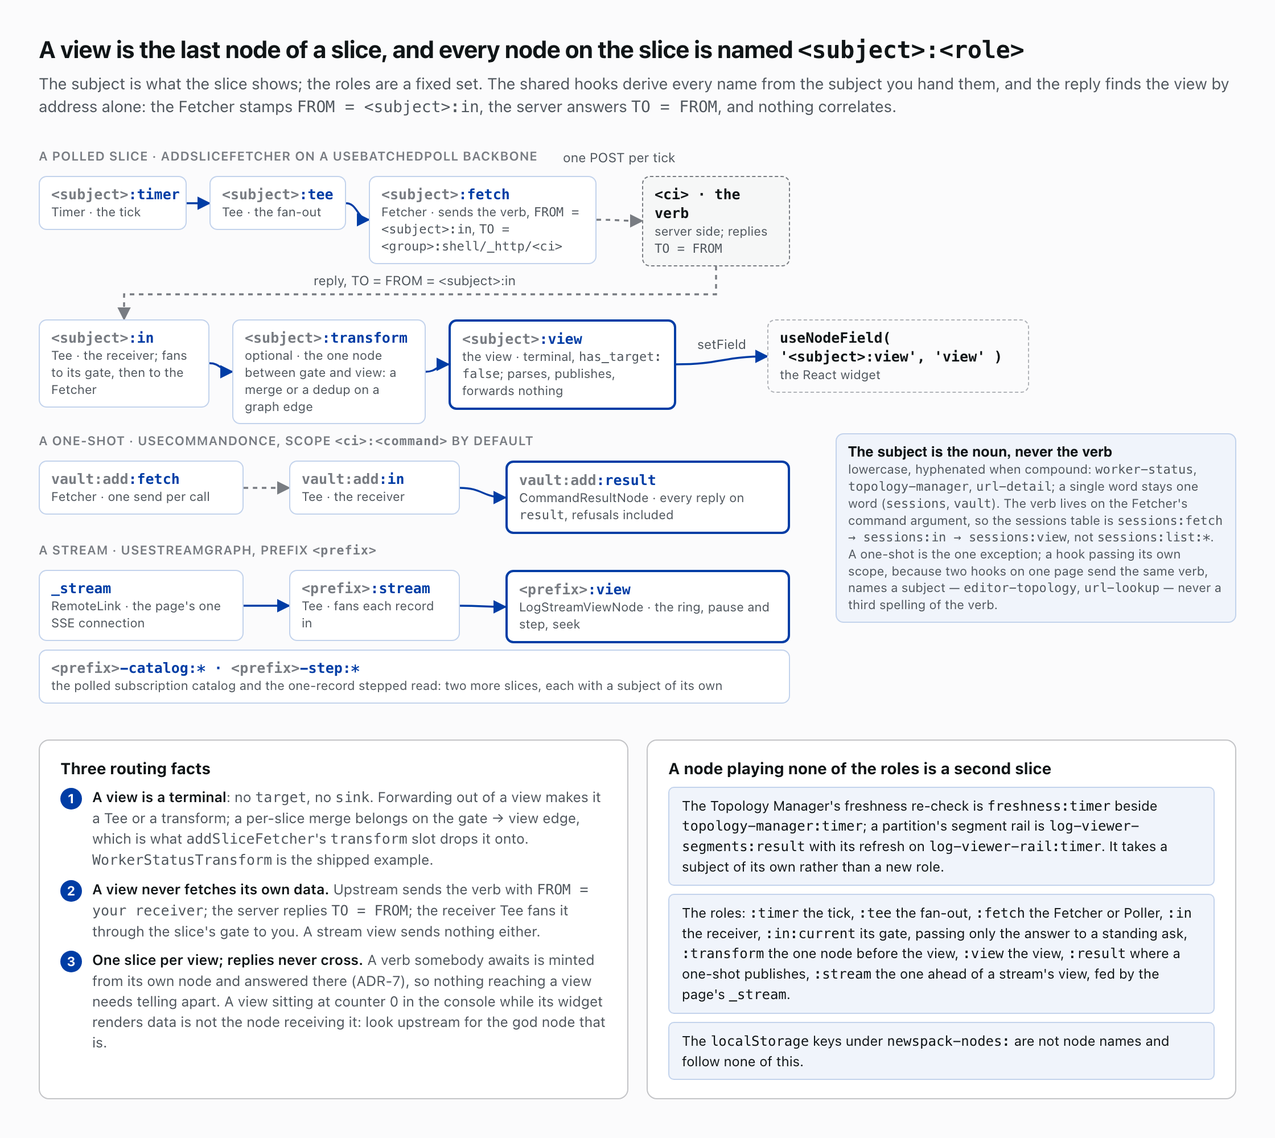
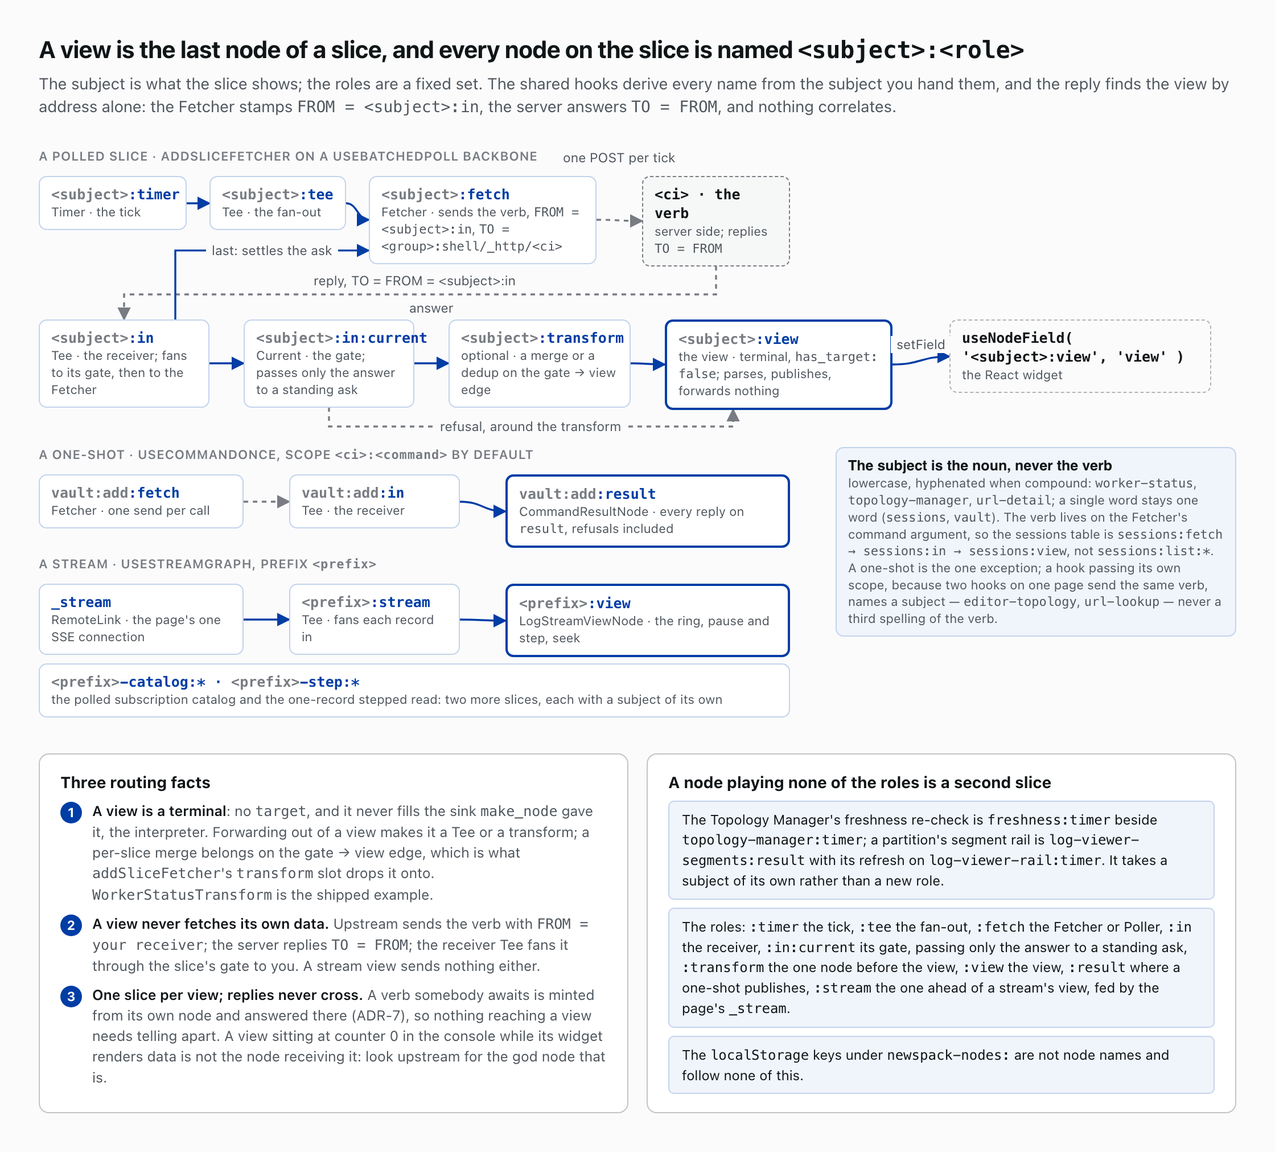
fix: resolve the GitHub AI findings in the console, build kit and docs
A save or delete re-asks every mounted useExpandedIncludes for its set,
which the cleared cache alone left empty and loading. The Sass importer
builds its file URL with pathToFileURL(), so a path with # or % resolves.
A graph whose every edge dangles grids alphabetically. browser-runtime.md
and the slice-path diagram draw the sinks and the current gate as built.

diff --git a/docs/img/wvn-slice-path.html b/docs/img/wvn-slice-path.html
@@ -1,6 +1,6 @@
 <!doctype html><meta charset="utf-8"><link rel="stylesheet" href="base.css">
 <style>
-.g { position: relative; width: 1052px; height: 505px; }
+.g { position: relative; width: 1052px; height: 517px; }
 .g svg.wire { position: absolute; left: 0; top: 0; }
 .nd { position: absolute; background: #fff; border: 1px solid #C3D3EC; border-radius: 7px; padding: 7px 10px; font-size: 12px; line-height: 1.35; }
 .nd .t { display: block; font-family: ui-monospace, SFMono-Regular, Menlo, Consolas, monospace; color: #003DA5; font-weight: 700; font-size: 12.5px; }
@@ -29,7 +29,7 @@
 <p class="sub">The subject is what the slice shows; the roles are a fixed set. The shared hooks derive every name from the subject you hand them, and the reply finds the view by address alone: the Fetcher stamps <span class="mono">FROM = &lt;subject&gt;:in</span>, the server answers <span class="mono">TO = FROM</span>, and nothing correlates.</p>
 
 <div class="g" id="g">
-<svg class="wire" id="wire" width="1052" height="505"><defs>
+<svg class="wire" id="wire" width="1052" height="517"><defs>
 <marker id="a" viewBox="0 0 10 10" refX="9" refY="5" markerWidth="7" markerHeight="7" orient="auto-start-reverse"><path d="M0 0 L10 5 L0 10 z" fill="#003DA5"/></marker>
 <marker id="ag" viewBox="0 0 10 10" refX="9" refY="5" markerWidth="7" markerHeight="7" orient="auto-start-reverse"><path d="M0 0 L10 5 L0 10 z" fill="#787C82"/></marker>
 </defs></svg>
@@ -40,28 +40,29 @@
 <div class="nd" id="fetch" style="left:290px;top:24px;width:200px"><span class="t"><i>&lt;subject&gt;</i>:fetch</span><span class="k">Fetcher · sends the verb, <span class="mono">FROM = &lt;subject&gt;:in</span>, <span class="mono">TO = &lt;group&gt;:shell/_http/&lt;ci&gt;</span></span></div>
 <div class="nd server" id="ci" style="left:530px;top:24px;width:130px"><span class="t">&lt;ci&gt; · the verb</span><span class="k">server side; replies <span class="mono">TO = FROM</span></span></div>
 <div class="nd" id="in" style="left:0;top:150px;width:150px"><span class="t"><i>&lt;subject&gt;</i>:in</span><span class="k">Tee · the receiver; fans to its gate, then to the Fetcher</span></div>
-<div class="nd" id="tr" style="left:170px;top:150px;width:170px"><span class="t"><i>&lt;subject&gt;</i>:transform</span><span class="k">optional · the one node between gate and view: a merge or a dedup on a graph edge</span></div>
-<div class="nd view" id="view" style="left:360px;top:150px;width:200px"><span class="t"><i>&lt;subject&gt;</i>:view</span><span class="k">the view · terminal, <span class="mono">has_target: false</span>; parses, publishes, forwards nothing</span></div>
-<div class="nd react" id="react" style="left:640px;top:150px;width:230px"><span class="t">useNodeField( '&lt;subject&gt;:view', 'view' )</span><span class="k">the React widget</span></div>
+<div class="nd" id="gate" style="left:180px;top:150px;width:150px"><span class="t"><i>&lt;subject&gt;</i>:in:current</span><span class="k">Current · the gate; passes only the answer to a standing ask</span></div>
+<div class="nd" id="tr" style="left:360px;top:150px;width:160px"><span class="t"><i>&lt;subject&gt;</i>:transform</span><span class="k">optional · a merge or a dedup on the gate → view edge</span></div>
+<div class="nd view" id="view" style="left:550px;top:150px;width:200px"><span class="t"><i>&lt;subject&gt;</i>:view</span><span class="k">the view · terminal, <span class="mono">has_target: false</span>; parses, publishes, forwards nothing</span></div>
+<div class="nd react" id="react" style="left:800px;top:150px;width:230px"><span class="t">useNodeField( '&lt;subject&gt;:view', 'view' )</span><span class="k">the React widget</span></div>
 
-<div class="band" style="left:0;top:250px">a one-shot · useCommandOnce, scope <span class="mono" style="text-transform:none">&lt;ci&gt;:&lt;command&gt;</span> by default</div>
-<div class="nd" id="ofetch" style="left:0;top:274px;width:180px"><span class="t"><i>vault:add</i>:fetch</span><span class="k">Fetcher · one send per call</span></div>
-<div class="nd" id="oin" style="left:220px;top:274px;width:150px"><span class="t"><i>vault:add</i>:in</span><span class="k">Tee · the receiver</span></div>
-<div class="nd view" id="ores" style="left:410px;top:274px;width:250px"><span class="t"><i>vault:add</i>:result</span><span class="k">CommandResultNode · every reply on <span class="mono">result</span>, refusals included</span></div>
+<div class="band" style="left:0;top:262px">a one-shot · useCommandOnce, scope <span class="mono" style="text-transform:none">&lt;ci&gt;:&lt;command&gt;</span> by default</div>
+<div class="nd" id="ofetch" style="left:0;top:286px;width:180px"><span class="t"><i>vault:add</i>:fetch</span><span class="k">Fetcher · one send per call</span></div>
+<div class="nd" id="oin" style="left:220px;top:286px;width:150px"><span class="t"><i>vault:add</i>:in</span><span class="k">Tee · the receiver</span></div>
+<div class="nd view" id="ores" style="left:410px;top:286px;width:250px"><span class="t"><i>vault:add</i>:result</span><span class="k">CommandResultNode · every reply on <span class="mono">result</span>, refusals included</span></div>
 
-<div class="band" style="left:0;top:346px">a stream · useStreamGraph, prefix <span class="mono" style="text-transform:none">&lt;prefix&gt;</span></div>
-<div class="nd" id="link" style="left:0;top:370px;width:180px"><span class="t">_stream</span><span class="k">RemoteLink · the page's one SSE connection</span></div>
-<div class="nd" id="stream" style="left:220px;top:370px;width:150px"><span class="t"><i>&lt;prefix&gt;</i>:stream</span><span class="k">Tee · fans each record in</span></div>
-<div class="nd view" id="sview" style="left:410px;top:370px;width:250px"><span class="t"><i>&lt;prefix&gt;</i>:view</span><span class="k">LogStreamViewNode · the ring, pause and step, seek</span></div>
-<div class="nd" id="side" style="left:0;top:440px;width:660px"><span class="t"><i>&lt;prefix&gt;</i>-catalog:* · <i>&lt;prefix&gt;</i>-step:*</span><span class="k">the polled subscription catalog and the one-record stepped read: two more slices, each with a subject of its own</span></div>
+<div class="band" style="left:0;top:358px">a stream · useStreamGraph, prefix <span class="mono" style="text-transform:none">&lt;prefix&gt;</span></div>
+<div class="nd" id="link" style="left:0;top:382px;width:180px"><span class="t">_stream</span><span class="k">RemoteLink · the page's one SSE connection</span></div>
+<div class="nd" id="stream" style="left:220px;top:382px;width:150px"><span class="t"><i>&lt;prefix&gt;</i>:stream</span><span class="k">Tee · fans each record in</span></div>
+<div class="nd view" id="sview" style="left:410px;top:382px;width:250px"><span class="t"><i>&lt;prefix&gt;</i>:view</span><span class="k">LogStreamViewNode · the ring, pause and step, seek</span></div>
+<div class="nd" id="side" style="left:0;top:452px;width:660px"><span class="t"><i>&lt;prefix&gt;</i>-catalog:* · <i>&lt;prefix&gt;</i>-step:*</span><span class="k">the polled subscription catalog and the one-record stepped read: two more slices, each with a subject of its own</span></div>
 
-<div class="nd" id="rule" style="left:700px;top:250px;width:352px;background:#F0F4FB"><span class="t" style="color:#101517;font-family:Inter,sans-serif">The subject is the noun, never the verb</span><span class="k">lowercase, hyphenated when compound: <span class="mono">worker-status</span>, <span class="mono">topology-manager</span>, <span class="mono">url-detail</span>; a single word stays one word (<span class="mono">sessions</span>, <span class="mono">vault</span>). The verb lives on the Fetcher's command argument, so the sessions table is <span class="mono">sessions:fetch → sessions:in → sessions:view</span>, not <span class="mono">sessions:list:*</span>. A one-shot is the one exception; a hook passing its own scope, because two hooks on one page send the same verb, names a subject — <span class="mono">editor-topology</span>, <span class="mono">url-lookup</span> — never a third spelling of the verb.</span></div>
+<div class="nd" id="rule" style="left:700px;top:262px;width:352px;background:#F0F4FB"><span class="t" style="color:#101517;font-family:Inter,sans-serif">The subject is the noun, never the verb</span><span class="k">lowercase, hyphenated when compound: <span class="mono">worker-status</span>, <span class="mono">topology-manager</span>, <span class="mono">url-detail</span>; a single word stays one word (<span class="mono">sessions</span>, <span class="mono">vault</span>). The verb lives on the Fetcher's command argument, so the sessions table is <span class="mono">sessions:fetch → sessions:in → sessions:view</span>, not <span class="mono">sessions:list:*</span>. A one-shot is the one exception; a hook passing its own scope, because two hooks on one page send the same verb, names a subject — <span class="mono">editor-topology</span>, <span class="mono">url-lookup</span> — never a third spelling of the verb.</span></div>
 </div>
 
 <div class="rowc">
   <div class="card">
     <h3>Three routing facts</h3>
-    <div class="step"><div class="n">1</div><div class="t"><b>A view is a terminal</b>: no <span class="mono">target</span>, no <span class="mono">sink</span>. Forwarding out of a view makes it a Tee or a transform; a per-slice merge belongs on the gate → view edge, which is what <span class="mono">addSliceFetcher</span>'s <span class="mono">transform</span> slot drops it onto. <span class="mono">WorkerStatusTransform</span> is the shipped example.</div></div>
+    <div class="step"><div class="n">1</div><div class="t"><b>A view is a terminal</b>: no <span class="mono">target</span>, and it never fills the sink <span class="mono">make_node</span> gave it, the interpreter. Forwarding out of a view makes it a Tee or a transform; a per-slice merge belongs on the gate → view edge, which is what <span class="mono">addSliceFetcher</span>'s <span class="mono">transform</span> slot drops it onto. <span class="mono">WorkerStatusTransform</span> is the shipped example.</div></div>
     <div class="step"><div class="n">2</div><div class="t"><b>A view never fetches its own data.</b> Upstream sends the verb with <span class="mono">FROM = your receiver</span>; the server replies <span class="mono">TO = FROM</span>; the receiver Tee fans it through the slice's gate to you. A stream view sends nothing either.</div></div>
     <div class="step" style="margin-bottom:0"><div class="n">3</div><div class="t"><b>One slice per view; replies never cross.</b> A verb somebody awaits is minted from its own node and answered there (ADR-7), so nothing reaching a view needs telling apart. A view sitting at counter 0 in the console while its widget renders data is not the node receiving it: look upstream for the god node that is.</div></div>
   </div>
@@ -90,7 +91,7 @@
     else { d = 'M' + a[0] + ' ' + a[1] + ' V' + b[1] + ' H' + b[0]; }
     svg.appendChild(el('path', { d: d, stroke: e.grey ? '#787C82' : '#003DA5', 'stroke-width': 1.7, fill: 'none', 'marker-end': e.grey ? 'url(#ag)' : 'url(#a)', 'stroke-dasharray': e.dash ? '4 4' : 'none' }));
     if (e.label) { var c = document.createElement('div'); c.className = 'cap'; c.innerHTML = e.label; g.appendChild(c);
-      var mx = e.ax !== undefined ? e.ax : (a[0] + b[0]) / 2 + (e.lx || 0), my = e.ay !== undefined ? e.ay : (a[1] + b[1]) / 2 + (e.ly || 0);
+      var mx = e.ax !== undefined ? e.ax : (a[0] + b[0]) / 2 + (e.lx || 0), my = e.onb ? b[1] : e.ay !== undefined ? e.ay : (a[1] + b[1]) / 2 + (e.ly || 0);
       c.style.left = (mx - c.offsetWidth / 2) + 'px'; c.style.top = (my - c.offsetHeight / 2) + 'px'; }
   }
   [
@@ -98,9 +99,12 @@
     { from: 'tee', fs: 'r', to: 'fetch', ts: 'l' },
     { from: 'fetch', fs: 'r', to: 'ci', ts: 'l', dash: true, grey: true, label: 'one POST per tick', ax: 510, ay: 8 },
     { from: 'ci', fs: 'b', to: 'in', ts: 't', f0: 0.5, f1: 0.5, dash: true, grey: true, pts: [[595, 128], [75, 128]], label: 'reply, TO = FROM = &lt;subject&gt;:in', ax: 330, ay: 116 },
-    { from: 'in', fs: 'r', to: 'tr', ts: 'l' },
+    { from: 'in', fs: 'r', to: 'gate', ts: 'l' },
+    { from: 'in', fs: 't', to: 'fetch', ts: 'l', f0: 0.8, f1: 0.85, label: 'last: settles the ask', ax: 205, onb: true },
+    { from: 'gate', fs: 'r', to: 'tr', ts: 'l', label: 'answer', ax: 345, ay: 140 },
     { from: 'tr', fs: 'r', to: 'view', ts: 'l' },
-    { from: 'view', fs: 'r', to: 'react', ts: 'l', label: 'setField', ax: 600, ay: 172 },
+    { from: 'gate', fs: 'b', to: 'view', ts: 'b', f0: 0.5, f1: 0.3, dash: true, grey: true, pts: [[255, 244], [610, 244]], label: 'refusal, around the transform', ax: 432, ay: 244 },
+    { from: 'view', fs: 'r', to: 'react', ts: 'l', label: 'setField', ax: 775, ay: 172 },
     { from: 'ofetch', fs: 'r', to: 'oin', ts: 'l', dash: true, grey: true },
     { from: 'oin', fs: 'r', to: 'ores', ts: 'l' },
     { from: 'link', fs: 'r', to: 'stream', ts: 'l' },

diff --git a/src/topology-console/utils/autoLayout.js b/src/topology-console/utils/autoLayout.js
@@ -2684,7 +2684,8 @@ const countCrossings = ( segs, visit ) => {
  * `parsed` is `{ nodes: [ { id } ], edges: [ { from, to } ] }`; null, or either
  * key missing, reads as empty. An edge whose endpoints are not both in `nodes`
  * is skipped, so a graph carrying a dangling edge lays out rather than throwing.
- * A graph with no edges at all becomes an alphabetical, roughly square grid.
+ * A graph with no edge whose both ends are present becomes an alphabetical,
+ * roughly square grid.
  *
  * @param {?{nodes?: Array<{id: string}>, edges?: Array<{from: string, to: string}>}} parsed The graph to lay out.
  * @return {{nodes: Array<{id: string, position: {x: number, y: number}}>, edges: Array<Object>}}
@@ -2694,22 +2695,6 @@ const countCrossings = ( segs, visit ) => {
 export function autoLayout( parsed ) {
 	const nodes = parsed?.nodes ?? [];
 	const edges = parsed?.edges ?? [];
-
-	// Edgeless nodes would all stack in column 0; grid them instead.
-	if ( edges.length === 0 && nodes.length > 0 ) {
-		const sorted = [ ...nodes ].sort( ( a, b ) =>
-			a.id.localeCompare( b.id )
-		);
-		const rowCount = Math.max( 1, Math.ceil( Math.sqrt( sorted.length ) ) );
-		const positioned = sorted.map( ( n, i ) => ( {
-			...n,
-			position: {
-				x: X_PAD + Math.floor( i / rowCount ) * X_STEP,
-				y: Y_PAD + ( i % rowCount ) * Y_STEP,
-			},
-		} ) );
-		return { nodes: positioned, edges };
-	}
 
 	// Alpha-canonical ids, so the live graph lays out like its .tsl.
 	const ids = [ ...nodes ].map( ( n ) => n.id ).sort( byId );
@@ -2736,6 +2721,22 @@ export function autoLayout( parsed ) {
 		seen.add( key );
 		succ[ e.from ].push( e.to );
 		pred[ e.to ].push( e.from );
+	}
+
+	// No wire with both ends drawn would stack every node in column 0: grid.
+	if ( 0 === seen.size && nodes.length > 0 ) {
+		const sorted = [ ...nodes ].sort( ( a, b ) =>
+			a.id.localeCompare( b.id )
+		);
+		const rowCount = Math.max( 1, Math.ceil( Math.sqrt( sorted.length ) ) );
+		const positioned = sorted.map( ( n, i ) => ( {
+			...n,
+			position: {
+				x: X_PAD + Math.floor( i / rowCount ) * X_STEP,
+				y: Y_PAD + ( i % rowCount ) * Y_STEP,
+			},
+		} ) );
+		return { nodes: positioned, edges };
 	}
 
 	const hubs = hubIds( ids, pred );

diff --git a/src/build-kit/__tests__/buildKit.test.js b/src/build-kit/__tests__/buildKit.test.js
@@ -175,6 +175,59 @@ describe( 'buildDashboards (integration, real esbuild)', () => {
 	} );
 } );
 
+// The Sass alias importer must hand Sass a file URL, not a hand-built string.
+describe( 'buildDashboards Sass alias with URL-special path characters', () => {
+	const fs = require( 'node:fs/promises' );
+	const os = require( 'node:os' );
+	const path = require( 'node:path' );
+
+	let root;
+
+	afterEach( async () => {
+		await fs.rm( root, { recursive: true, force: true } );
+	} );
+
+	test( 'resolves an aliased @use under a dir holding #, % and a space', async () => {
+		const kit = await import( '../index.mjs' );
+		const esbuild = ( await import( 'esbuild' ) ).default;
+		const sass = await import( 'sass' );
+		const rtlcss = ( await import( 'rtlcss' ) ).default;
+
+		root = await fs.mkdtemp( path.join( os.tmpdir(), 'buildkit-url-' ) );
+		const shared = path.join( root, 'shared #7 50% dir' );
+		await fs.mkdir( path.join( shared, 'styles' ), { recursive: true } );
+		await fs.writeFile(
+			path.join( shared, 'styles', '_marker.scss' ),
+			'.marker-from-alias { padding-left: 13px; }'
+		);
+		await fs.writeFile(
+			path.join( root, 'style.scss' ),
+			"@use '@fixture-alias/styles/marker';"
+		);
+		await fs.writeFile(
+			path.join( root, 'entry.js' ),
+			"import './style.scss';\nexport const y = 1;\n"
+		);
+		const outDir = path.join( root, 'build/aliased' );
+
+		await kit.buildDashboards( {
+			esbuild,
+			sass,
+			rtlcss,
+			root,
+			entries: [ { entry: 'entry.js', outDir } ],
+			alias: { '@fixture-alias': shared },
+		} );
+
+		const css = await fs.readFile(
+			path.join( outDir, 'entry.css' ),
+			'utf8'
+		);
+		expect( css ).toContain( '.marker-from-alias' );
+		expect( css ).toContain( '13px' );
+	}, 30000 );
+} );
+
 // A watch build rebuilds the SAME context; holding dispose back models that.
 describe( 'buildDashboards rebuild (integration, real esbuild)', () => {
 	const fs = require( 'node:fs/promises' );

diff --git a/src/topology-console/hooks/useExpandedIncludes.js b/src/topology-console/hooks/useExpandedIncludes.js
@@ -35,6 +35,12 @@ const EMPTY = { nodes: [], edges: [], tree: {}, hulls: {} };
  */
 const cache = new Map();
 
+/** Bumped by each invalidation, so a mounted hook asks its set again. */
+let generation = 0;
+
+/** The re-render of every mounted hook, which an invalidation calls. */
+const listeners = new Set();
+
 /**
  * The cache key and command tokens of an include set: its names, then the
  * flag that asks for each Vault_Group as written when the editor wants that.
@@ -72,9 +78,14 @@ function shape( value ) {
 /**
  * Drop every cached expansion. Saving or deleting ANY topology can change what
  * an `include` of it expands to, so the console invalidates on both.
+ *
+ * A mounted hook whose include set is unchanged asks for it again, because its
+ * key alone would never re-run the ask and it would read empty from then on.
  */
 export function invalidateExpandedIncludes() {
 	cache.clear();
+	generation++;
+	listeners.forEach( ( rerender ) => rerender( ( n ) => n + 1 ) );
 }
 
 /**
@@ -149,11 +160,19 @@ export function useExpandedIncludes( includes, { groupChildren = true } = {} ) {
 	} );
 
 	useEffect( () => {
+		listeners.add( bump );
+		return () => {
+			listeners.delete( bump );
+		};
+	}, [] );
+
+	const asked = generation;
+	useEffect( () => {
 		setError( null );
 		if ( '' !== key && ! cache.has( key ) ) {
 			run( formatCommandArgs( key.split( ' ' ) ) );
 		}
-	}, [ key, run ] );
+	}, [ key, run, asked ] );
 
 	return {
 		expansion: ( '' === key ? EMPTY : cache.get( key ) ) ?? EMPTY,

diff --git a/src/topology-console/hooks/__tests__/useExpandedIncludes.test.js b/src/topology-console/hooks/__tests__/useExpandedIncludes.test.js
@@ -186,13 +186,47 @@ describe( 'useExpandedIncludes', () => {
 		rerender( { includes: [ 'performance' ] } );
 		expect( send ).toHaveBeenCalledTimes( 1 );
 
-		invalidateExpandedIncludes();
+		act( () => invalidateExpandedIncludes() );
 		rerender( { includes: [] } );
 		rerender( { includes: [ 'performance' ] } );
 
 		await waitFor( () => expect( send ).toHaveBeenCalledTimes( 2 ), {
 			timeout: 4000,
 		} );
+	}, 15000 );
+
+	it( 'reaches a mounted hook whose include set never changes', async () => {
+		let answer = 'before-save-tee';
+		send.mockImplementation( () => ( {
+			nodes: [ { name: answer } ],
+			edges: [],
+			tree: { 'saved-include': {} },
+		} ) );
+		const { result } = renderHook( () =>
+			useExpandedIncludes( [ 'saved-include' ] )
+		);
+		await waitFor( () => expect( result.current.loading ).toBe( false ), {
+			timeout: 4000,
+		} );
+		expect( result.current.expansion.nodes ).toEqual( [
+			{ name: 'before-save-tee' },
+		] );
+
+		answer = 'after-save-tee';
+		act( () => invalidateExpandedIncludes() );
+
+		await waitFor(
+			() =>
+				expect( result.current.expansion.nodes ).toEqual( [
+					{ name: 'after-save-tee' },
+				] ),
+			{ timeout: 6000 }
+		);
+		expect( result.current.loading ).toBe( false );
+		expect( args() ).toEqual( [
+			[ 'saved-include' ],
+			[ 'saved-include' ],
+		] );
 	}, 15000 );
 } );
 

diff --git a/src/topology-console/utils/__tests__/autoLayout.test.js b/src/topology-console/utils/__tests__/autoLayout.test.js
@@ -708,6 +708,34 @@ describe( 'autoLayout', () => {
 		expect( autoLayout( undefined ).nodes ).toEqual( [] );
 	} );
 
+	it( 'grids a graph whose every edge dangles, as it grids an edgeless one', () => {
+		const dangling = [
+			{ from: 'echo', to: 'ghost-sink' },
+			{ from: 'ghost-source', to: 'alpha' },
+		];
+		const out = autoLayout( {
+			nodes: [
+				{ id: 'echo' },
+				{ id: 'charlie' },
+				{ id: 'alpha' },
+				{ id: 'delta' },
+				{ id: 'bravo' },
+			],
+			edges: dangling,
+		} );
+		const at = Object.fromEntries(
+			out.nodes.map( ( n ) => [ n.id, n.position ] )
+		);
+		expect( at ).toEqual( {
+			alpha: { x: X_PAD, y: Y_PAD },
+			bravo: { x: X_PAD, y: Y_PAD + Y_STEP },
+			charlie: { x: X_PAD, y: Y_PAD + 2 * Y_STEP },
+			delta: { x: X_PAD + X_STEP, y: Y_PAD },
+			echo: { x: X_PAD + X_STEP, y: Y_PAD + Y_STEP },
+		} );
+		expect( out.edges ).toBe( dangling );
+	} );
+
 	it( 'places a single source node at the origin column', () => {
 		const out = autoLayout( {
 			nodes: [ { id: 'a' } ],

diff --git a/docs/browser-runtime.md b/docs/browser-runtime.md
@@ -6,7 +6,7 @@ Every dashboard in these two plugins is a React page in wp-admin, and none runs 
 
 ## The same graph, in JavaScript
 
-The runtime ships as [`@newspack-nodes/runtime`](../src/runtime/index.js), with the PHP vocabulary: fill, sink and target. Every page mounts [`_router`](../src/runtime/router-node.js), which forwards each message by the first segment of its TO and owns the page's one heartbeat, the tick every periodic node rides, and `_command_interpreter`, which turns each console line into an action on the node table and answers with TO set to the request's FROM. Every other node sinks into `_router`, the interpreter included, and each page wires its own nodes onto those two.
+The runtime ships as [`@newspack-nodes/runtime`](../src/runtime/index.js), with the PHP vocabulary: fill, sink and target. Every page mounts [`_router`](../src/runtime/router-node.js), which forwards each message by the first segment of its TO and owns the page's one heartbeat, the tick every periodic node rides, and `_command_interpreter`, which turns each console line into an action on the node table and answers with TO set to the request's FROM. The interpreter alone sinks into `_router`; every other node sinks into the interpreter, which `make_node` wires for each node it builds, and each page wires its own nodes onto those two.
 
 A Timer ticks on that heartbeat, a Tee fans the tick to one Fetcher per verb, and each Fetcher sends its fixed verb with FROM set to its receiver Tee. The reply returns with TO set to that FROM, so it lands on the receiver Tee and passes to a view node, which parses it into a render model, publishes it, and forwards nothing. One widget draws that one node. No node holds the whole model: one that fetched everything would have counters that never move and edges a debugger cannot read, so the overlay would have nothing to draw.
 

diff --git a/CHANGELOG.md b/CHANGELOG.md
@@ -7,6 +7,12 @@ and this project adheres to [Semantic Versioning](https://semver.org/spec/v2.0.0
 
 ## [Unreleased]
 
+### Fixed
+
+- **The build kit's Sass alias importer resolves a checkout whose path holds `#`, `%` or a space.** `aliasImporter()` built its file URL by string concatenation, so `#` began a fragment and `%` an escape, and an aliased `@use` failed with `Can't find stylesheet to import`; it now builds the URL with `pathToFileURL()`.
+- **Saving or deleting a topology re-expands the include set a mounted console already shows.** `invalidateExpandedIncludes()` cleared the cache, but a mounted `useExpandedIncludes` reran its ask only when its include set changed, so after a save the canvas read an empty expansion with `loading` stuck true. An invalidation now re-renders every mounted hook, which asks for its set again.
+- **The topology console grids a graph whose every edge dangles, as it grids an edgeless one.** `autoLayout()` decided edgelessness on the raw edge count before dropping edges with an absent end, so a graph of only dangling edges stacked in one column; it now decides on the edges that survive that filter.
+
 ## [2.103.1] - 2026-10-08
 
 ### Changed
